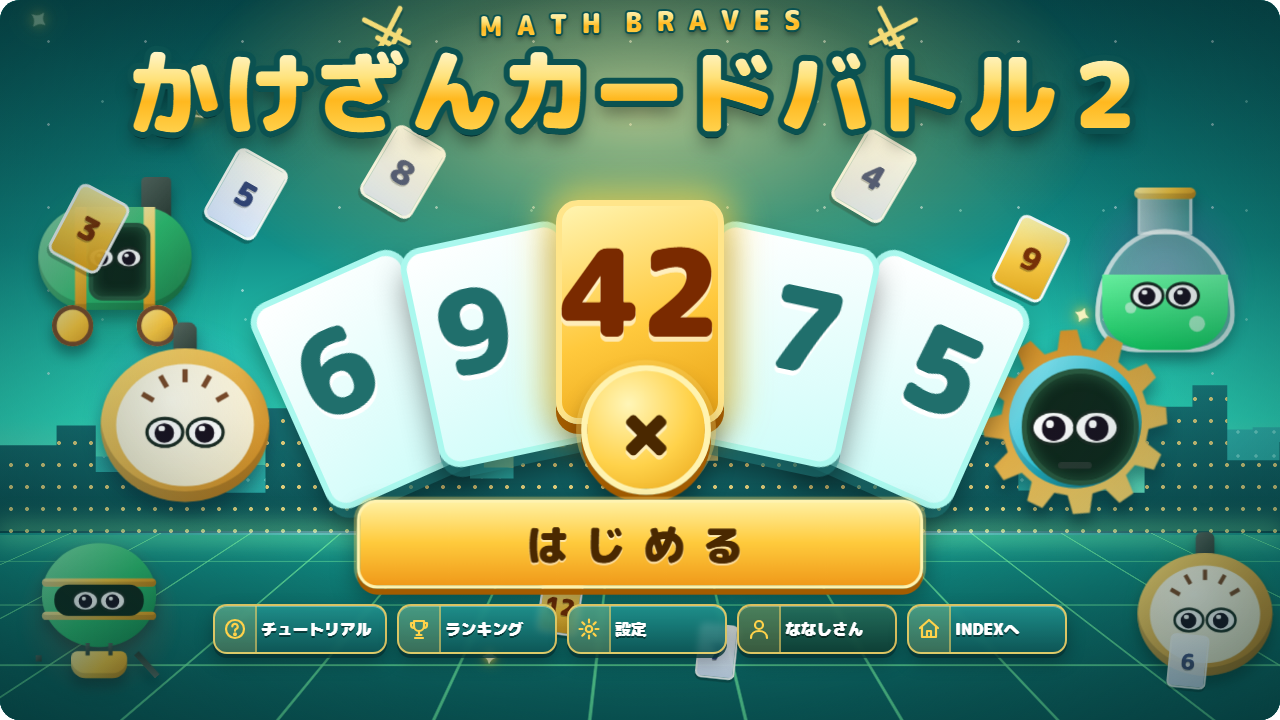
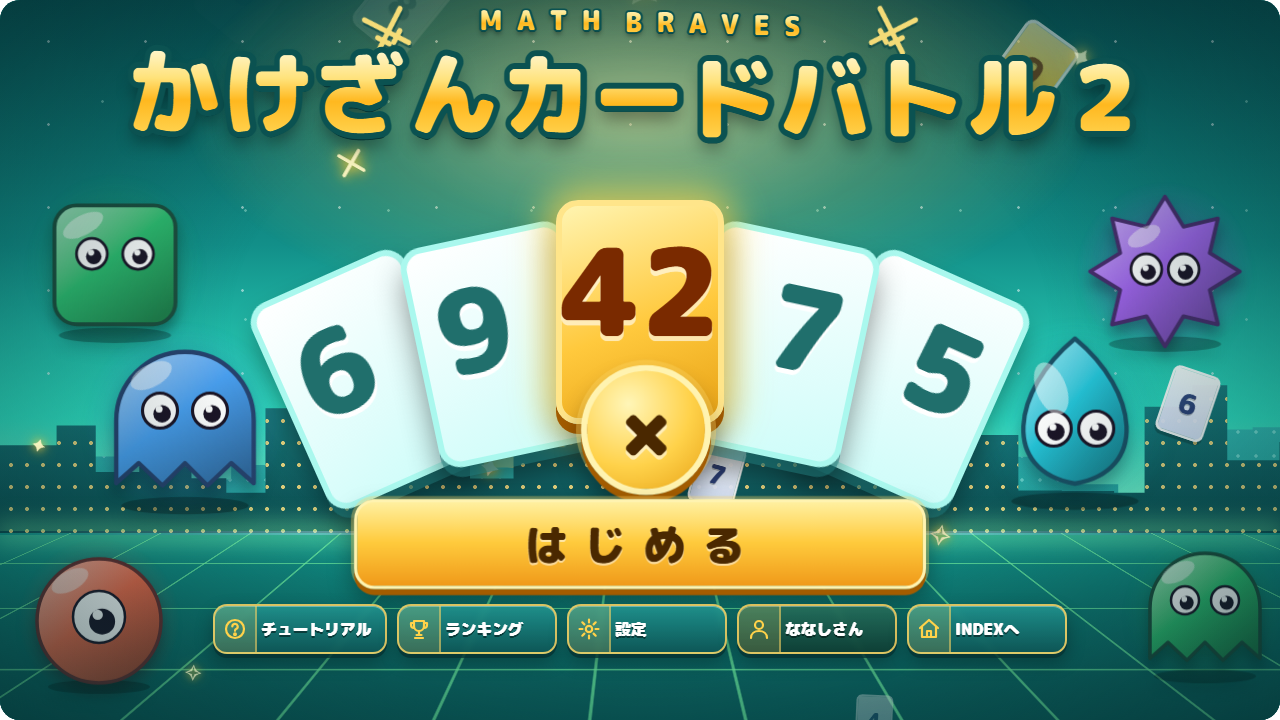
マスブレかけざん2: 敵を、前から好きだった まるっこい簡単なモンスター(おばけ・しかく・しずく・トゲトゲ・ひとつ目・ツノのボス)にもどし、描き方をきれいに
- スチームロボをやめ、元のモンスター6体の形・色にもどした。ぬりをグラデーションにし、ふち・つや・ハイライトつきの目・まばたき・かげを足したSVGで描き直し(ボスは怒りまゆ毛とニヤリ口)
- ラウンド名もモンスターに合わせた(ふわふわ おばけ…ツノの ボス)
- INDEXのサムネを新しいタイトル画面に差し替え

diff --git a/Math_Braves_multiplication2/field-art.js b/Math_Braves_multiplication2/field-art.js
@@ -1,18 +1,61 @@
-// かけざん2の絵: スチームロボ(真ちゅうの圧力ゲージ・ボイラー・歯車・蒸気)。
-// ロボは150x150の箱に描く(ボスは190x190)。体の色は .mon の --c で変える。ROUND_COLORS はラウンドごとの体の色。
+// かけざん2の絵: 前から好きだった、まるっこい簡単なモンスター(おばけ・しかく・しずく・トゲトゲ・ひとつ目・ツノのボス)。
+// 形は元のまま、ぬりをグラデーションにして ふち・つや・かげ・まばたきを足して きれいに描いた(SVG)。
+// 体の色は .mon の --c で変える。ROUND_COLORS はラウンドごとの体の色。
+const ROUND_COLORS = ['#9b59b6', '#3498db', '#2ecc71', '#f1c40f', '#e67e22', '#34495e'];
+
+let _mnId = 0;
+// 1体ぶんのSVG。body=からだのパス(または図形)、eyes=目の位置、size=箱の大きさ
+function mnSVG(size, bodyShape, extraBack, eyes, extraFront) {
+    const id = 'mg' + (++_mnId);
+    const eyeHTML = eyes.map(e => `<g class="mn-eye"><circle cx="${e.x}" cy="${e.y}" r="${e.r}" fill="#fff" stroke="#1c1426" stroke-width="2.5"/><circle cx="${e.x + e.r * 0.12}" cy="${e.y + e.r * 0.18}" r="${e.r * 0.5}" fill="#1c1426"/><circle cx="${e.x - e.r * 0.05}" cy="${e.y - e.r * 0.08}" r="${e.r * 0.2}" fill="#fff"/></g>`).join('');
+    return `<svg class="mn-svg" viewBox="0 0 ${size} ${size}" xmlns="http://www.w3.org/2000/svg">
+        <defs>
+            <linearGradient id="${id}" x1="0" y1="0" x2="0.8" y2="1"><stop offset="0" style="stop-color:color-mix(in srgb, var(--c) 45%, #fff)"/><stop offset="0.5" style="stop-color:var(--c)"/><stop offset="1" style="stop-color:color-mix(in srgb, var(--c) 66%, #000)"/></linearGradient>
+        </defs>
+        <ellipse cx="${size / 2}" cy="${size - 8}" rx="${size * 0.34}" ry="7" fill="rgba(0,0,0,.28)"/>
+        ${extraBack || ''}
+        <g fill="url(#${id})" stroke="color-mix(in srgb, var(--c) 38%, #12091f)" stroke-width="3.5" stroke-linejoin="round">${bodyShape}</g>
+        ${eyeHTML}
+        ${extraFront || ''}
+    </svg>`;
+}
+const gloss = (cx, cy, rx, ry, rot) => `<ellipse cx="${cx}" cy="${cy}" rx="${rx}" ry="${ry}" transform="rotate(${rot || -28} ${cx} ${cy})" fill="rgba(255,255,255,.45)"/>`;
+
+function starPath(cx, cy, ro, ri, n) {
+    const pts = [];
+    for (let i = 0; i < n * 2; i++) { const a = -Math.PI / 2 + i * Math.PI / n, r = i % 2 === 0 ? ro : ri; pts.push(`${(cx + Math.cos(a) * r).toFixed(1)},${(cy + Math.sin(a) * r).toFixed(1)}`); }
+    return `<polygon points="${pts.join(' ')}"/>`;
+}
+
+// ぬりのグラデーションのidは、描くたびに新しく作る(同じidが2つあると、かくれた方を見て色が消えるため)
 const ROBOTS = [
-    `<div class="ab sdk" style="left:66px;top:2px;width:18px;height:30px;border-radius:6px"></div><div class="ab" style="left:70px;top:-8px;width:10px;height:14px;border-radius:50%;background:rgba(255,255,255,.7);animation:stPuff 2s infinite"></div><div class="ab" style="left:10px;top:22px;width:130px;height:118px;border-radius:50%;background:linear-gradient(135deg,#ffe27a,#c8801a);box-shadow:inset 0 -8px 0 rgba(0,0,0,.18)"></div><div class="ab" style="left:22px;top:34px;width:106px;height:94px;border-radius:50%;background:radial-gradient(circle at 40% 30%,#fffdf0,#f0e6c4)"></div><div class="ab" style="left:73px;top:38px;width:4px;height:10px;background:#7a4a2a;transform-origin:2px 38px;transform:rotate(-60deg)"></div><div class="ab" style="left:73px;top:38px;width:4px;height:10px;background:#7a4a2a;transform-origin:2px 38px;transform:rotate(-30deg)"></div><div class="ab" style="left:73px;top:38px;width:4px;height:10px;background:#7a4a2a;transform-origin:2px 38px;transform:rotate(0deg)"></div><div class="ab" style="left:73px;top:38px;width:4px;height:10px;background:#7a4a2a;transform-origin:2px 38px;transform:rotate(30deg)"></div><div class="ab" style="left:73px;top:38px;width:4px;height:10px;background:#7a4a2a;transform-origin:2px 38px;transform:rotate(60deg)"></div><div class="sjt" style="left:47.2px;top:76.7px;width:24.8px;height:18.6px"><div class="sp" style="left:4.959999999999999px;top:2.719999999999999px;width:14.880000000000003px;height:14.880000000000003px"></div><div class="sl" style="height:13.3px;background:#f4ead0"></div></div><div class="sjt" style="left:78px;top:76.7px;width:24.8px;height:18.6px"><div class="sp" style="left:4.959999999999999px;top:2.719999999999999px;width:14.880000000000003px;height:14.880000000000003px"></div><div class="sl" style="height:13.3px;background:#f4ead0"></div></div>`,
-    `<div class="ab sdk" style="left:98px;top:0px;width:26px;height:40px;border-radius:4px 4px 0 0"></div><div class="ab" style="left:100px;top:-10px;width:22px;height:16px;border-radius:50%;background:rgba(255,255,255,.7);animation:stPuff 2s infinite"></div><div class="ab sgr" style="left:8px;top:26px;width:134px;height:90px;border-radius:44px"></div><div class="ab sgd" style="left:40px;top:26px;width:10px;height:90px;"></div><div class="ab sgd" style="left:100px;top:26px;width:10px;height:90px;"></div><div class="ab ssc" style="left:52px;top:40px;width:46px;height:60px;border-radius:12px"></div><div class="sjt" style="left:53px;top:62.5px;width:20px;height:15px"><div class="sp" style="left:4px;top:2px;width:12px;height:12px"></div><div class="sl" style="height:11.5px;background:#10281c"></div></div><div class="sjt" style="left:77px;top:62.5px;width:20px;height:15px"><div class="sp" style="left:4px;top:2px;width:12px;height:12px"></div><div class="sl" style="height:11.5px;background:#10281c"></div></div><div class="ab sgd" style="left:20px;top:112px;width:36px;height:36px;border-radius:50%;box-shadow:0 0 0 4px #7a4a2a inset"></div><div class="ab sgd" style="left:94px;top:112px;width:36px;height:36px;border-radius:50%;box-shadow:0 0 0 4px #7a4a2a inset"></div>`,
-    `<div class="ab" style="left:4px;top:4px;width:142px;height:142px;background:linear-gradient(135deg,#ffe27a,#c8801a);clip-path:polygon(90.0% 50.0%,99.8% 53.9%,98.3% 62.9%,87.7% 63.4%,84.6% 70.0%,91.2% 78.3%,85.4% 85.4%,76.0% 80.4%,70.0% 84.6%,71.5% 95.1%,62.9% 98.3%,57.3% 89.3%,50.0% 90.0%,46.1% 99.8%,37.1% 98.3%,36.6% 87.7%,30.0% 84.6%,21.7% 91.2%,14.6% 85.4%,19.6% 76.0%,15.4% 70.0%,4.9% 71.5%,1.7% 62.9%,10.7% 57.3%,10.0% 50.0%,0.2% 46.1%,1.7% 37.1%,12.3% 36.6%,15.4% 30.0%,8.8% 21.7%,14.6% 14.6%,24.0% 19.6%,30.0% 15.4%,28.5% 4.9%,37.1% 1.7%,42.7% 10.7%,50.0% 10.0%,53.9% 0.2%,62.9% 1.7%,63.4% 12.3%,70.0% 15.4%,78.3% 8.8%,85.4% 14.6%,80.4% 24.0%,84.6% 30.0%,95.1% 28.5%,98.3% 37.1%,89.3% 42.7%);animation:stSpin 14s linear infinite"></div><div class="ab sgr" style="left:24px;top:24px;width:102px;height:102px;border-radius:50%"></div><div class="ab ssc" style="left:34px;top:34px;width:82px;height:82px;border-radius:50%"></div><div class="sjt" style="left:42.8px;top:68.3px;width:31.200000000000003px;height:23.400000000000002px"><div class="sp" style="left:6.24px;top:3.6799999999999997px;width:18.720000000000002px;height:18.720000000000002px"></div><div class="sl" style="height:15.700000000000001px;background:#10281c"></div></div><div class="sjt" style="left:76px;top:68.3px;width:31.200000000000003px;height:23.400000000000002px"><div class="sp" style="left:6.24px;top:3.6799999999999997px;width:18.720000000000002px;height:18.720000000000002px"></div><div class="sl" style="height:15.700000000000001px;background:#10281c"></div></div><div class="ab" style="left:62px;top:106px;width:26px;height:5px;background:#2a3a32;border-radius:3px"></div>`,
-    `<div class="ab" style="left:54px;top:4px;width:42px;height:34px;background:linear-gradient(90deg,rgba(255,255,255,.6),rgba(200,255,230,.3));box-shadow:0 0 0 3px rgba(255,255,255,.7);border-radius:6px 6px 0 0"></div><div class="ab sgd" style="left:48px;top:0px;width:54px;height:10px;border-radius:5px"></div><div class="ab" style="left:14px;top:36px;width:122px;height:108px;border-radius:50% 50% 30% 30%/70% 70% 30% 30%;background:rgba(220,255,240,.35);box-shadow:0 0 0 4px rgba(255,255,255,.7) inset"></div><div class="ab" style="left:20px;top:76px;width:110px;height:66px;border-radius:0 0 40px 40px/0 0 36px 36px;background:linear-gradient(#6fffa8,#14c860)"></div><div class="ab" style="left:40px;top:100px;width:10px;height:10px;border-radius:50%;background:rgba(255,255,255,.55)"></div><div class="ab" style="left:96px;top:112px;width:14px;height:14px;border-radius:50%;background:rgba(255,255,255,.55)"></div><div class="ab" style="left:70px;top:88px;width:8px;height:8px;border-radius:50%;background:rgba(255,255,255,.55)"></div><div class="sjt" style="left:47.2px;top:84.7px;width:24.8px;height:18.6px"><div class="sp" style="left:4.959999999999999px;top:2.719999999999999px;width:14.880000000000003px;height:14.880000000000003px"></div><div class="sl" style="height:13.3px;background:#38d880"></div></div><div class="sjt" style="left:78px;top:84.7px;width:24.8px;height:18.6px"><div class="sp" style="left:4.959999999999999px;top:2.719999999999999px;width:14.880000000000003px;height:14.880000000000003px"></div><div class="sl" style="height:13.3px;background:#38d880"></div></div>`,
-    `<div class="ab" style="left:20px;top:4px;width:110px;height:100px;border-radius:50%;background:linear-gradient(135deg,#8af0b6,#2fbf71 55%,#14804a)"></div><div class="ab sgd" style="left:20px;top:38px;width:110px;height:8px;border-radius:4px"></div><div class="ab sgd" style="left:20px;top:70px;width:110px;height:8px;border-radius:4px"></div><div class="ab" style="left:32px;top:44px;width:86px;height:30px;background:#10281c;border-radius:14px"></div><div class="sjt" style="left:51px;top:50.75px;width:22px;height:16.5px"><div class="sp" style="left:4.3999999999999995px;top:2.299999999999999px;width:13.200000000000001px;height:13.200000000000001px"></div><div class="sl" style="height:12.25px;background:#10281c"></div></div><div class="sjt" style="left:77px;top:50.75px;width:22px;height:16.5px"><div class="sp" style="left:4.3999999999999995px;top:2.299999999999999px;width:13.200000000000001px;height:13.200000000000001px"></div><div class="sl" style="height:12.25px;background:#10281c"></div></div><div class="ab sgd" style="left:48px;top:108px;width:54px;height:26px;border-radius:6px 6px 14px 14px"></div><div class="ab sdk" style="left:62px;top:100px;width:4px;height:12px;"></div><div class="ab sdk" style="left:84px;top:100px;width:4px;height:12px;"></div><div class="ab sdk" style="left:106px;top:118px;width:30px;height:6px;animation:stSpin 1s linear infinite"></div><div class="ab sdk" style="left:14px;top:112px;width:6px;height:6px;"></div>`,
+    // 1 おばけ
+    () => mnSVG(150, `<path d="M20 74 A55 55 0 0 1 130 74 L130 124 L112 108 L93 126 L75 108 L57 126 L38 108 L20 124 Z"/>`, '',
+        [{ x: 55, y: 66, r: 14 }, { x: 95, y: 66, r: 14 }], gloss(48, 38, 18, 9)),
+    // 2 しかく
+    () => mnSVG(150, `<rect x="20" y="24" width="110" height="108" rx="20"/>`, '',
+        [{ x: 54, y: 68, r: 14 }, { x: 96, y: 68, r: 14 }], gloss(46, 42, 20, 9)),
+    // 3 しずく
+    () => mnSVG(150, `<path d="M75 12 C24 54 16 118 75 128 C134 118 126 54 75 12 Z"/>`, '',
+        [{ x: 58, y: 84, r: 14 }, { x: 92, y: 84, r: 14 }], gloss(56, 52, 12, 22, -22)),
+    // 4 トゲトゲ
+    () => mnSVG(150, starPath(75, 76, 68, 44, 8), '',
+        [{ x: 58, y: 74, r: 14 }, { x: 92, y: 74, r: 14 }], gloss(56, 44, 16, 8)),
+    // 5 ひとつ目
+    () => mnSVG(150, `<circle cx="75" cy="76" r="62"/>`, '',
+        [{ x: 75, y: 72, r: 26 }], gloss(46, 36, 20, 10)),
 ];
-const ROBOT_BOSS = `<div class="ab sdk" style="left:120px;top:0px;width:36px;height:56px;border-radius:6px 6px 0 0"></div><div class="ab" style="left:124px;top:-6px;width:28px;height:20px;border-radius:50%;background:rgba(255,255,255,.7);animation:stPuff 2.2s infinite"></div><div class="ab sgr" style="left:18px;top:20px;width:154px;height:120px;border-radius:56px"></div><div class="ab sgd" style="left:48px;top:20px;width:12px;height:120px;"></div><div class="ab sgd" style="left:90px;top:20px;width:12px;height:120px;"></div><div class="ab sgd" style="left:132px;top:20px;width:12px;height:120px;"></div><div class="ab ssc" style="left:50px;top:38px;width:90px;height:54px;border-radius:16px"></div><div class="sjt" style="left:59.800000000000004px;top:52.3px;width:31.200000000000003px;height:23.400000000000002px"><div class="sp" style="left:6.24px;top:3.6799999999999997px;width:18.720000000000002px;height:18.720000000000002px"></div><div class="sl" style="height:15.700000000000001px;background:#10281c"></div></div><div class="sjt" style="left:99px;top:52.3px;width:31.200000000000003px;height:23.400000000000002px"><div class="sp" style="left:6.24px;top:3.6799999999999997px;width:18.720000000000002px;height:18.720000000000002px"></div><div class="sl" style="height:15.700000000000001px;background:#10281c"></div></div><div class="ab" style="left:60px;top:100px;width:70px;height:34px;border-radius:8px 8px 18px 18px;background:#1a0a04;box-shadow:inset 0 -10px 18px #ff7a1c,0 0 0 4px #7a4a2a;animation:stGlow 1.2s infinite"></div><div class="ab sdk" style="left:18px;top:130px;width:154px;height:46px;border-radius:10px"></div><div class="ab sgd" style="left:34px;top:138px;width:34px;height:34px;border-radius:50%;box-shadow:0 0 0 4px #7a4a2a inset"></div><div class="ab sgd" style="left:80px;top:138px;width:34px;height:34px;border-radius:50%;box-shadow:0 0 0 4px #7a4a2a inset"></div><div class="ab sgd" style="left:126px;top:138px;width:34px;height:34px;border-radius:50%;box-shadow:0 0 0 4px #7a4a2a inset"></div>`;
-const ROUND_COLORS = ['#2fbf71', '#4aa0f0', '#ef6a4a', '#a064ea', '#26c6da', '#2fbf71'];
-// 共通の画面(タイトルのロボ・RUNカード)が使う、ロボ1体のHTML
+// 6 ツノのボス(190x190)
+const ROBOT_BOSS = () => mnSVG(190,
+    `<circle cx="95" cy="112" r="74"/>`,
+    `<g fill="#e8e4f0" stroke="#12091f" stroke-width="3.5" stroke-linejoin="round"><path d="M44 62 L24 10 L74 44 Z"/><path d="M146 62 L166 10 L116 44 Z"/></g>`,
+    [{ x: 66, y: 102, r: 18 }, { x: 124, y: 102, r: 18 }],
+    `<path d="M44 82 L88 94" stroke="#12091f" stroke-width="6" stroke-linecap="round"/><path d="M146 82 L102 94" stroke="#12091f" stroke-width="6" stroke-linecap="round"/><path d="M70 144 Q95 160 120 144" stroke="#12091f" stroke-width="5" fill="none" stroke-linecap="round"/>` + gloss(62, 64, 22, 10));
+
+// 共通の画面(タイトルのモンスター・RUNカード)が使う、モンスター1体のHTML
 function monHTML(shape) {
-    return `<div class="glow"></div><div class="rbx">${ROBOTS[shape % ROBOTS.length]}</div>`;
+    return `<div class="glow"></div>${ROBOTS[shape % ROBOTS.length]()}`;
 }
 function bossHTML() {
-    return `<div class="glow"></div><div class="rbx big">${ROBOT_BOSS}</div>`;
+    return `<div class="glow"></div>${ROBOT_BOSS()}`;
 }

diff --git a/Math_Braves_multiplication2/Math_Braves_multiplication2.html b/Math_Braves_multiplication2/Math_Braves_multiplication2.html
@@ -18,27 +18,19 @@
     <style>
         /* ティール×金(スチーム)。--h は共通CSSの色相(たしざん=220, ひきざん=352, かけざん=150) */
         :root { --h: 172; --led: #7dffd8; --led-soft: rgba(125,255,216,0.45); }
-        .mon { --c: #2fbf71; }
+        .mon { --c: #9b59b6; }
 
-        /* ---- スチームロボ(150x150の箱に描いて縮小する。ボスは190x190)。体の色は --c ---- */
-        .rbx { position:absolute; left:50%; top:50%; width:150px; height:150px; margin:-75px 0 0 -75px; transform:scale(1.04); z-index:1; }
-        .rbx.big { width:190px; height:190px; margin:-95px 0 0 -95px; transform:scale(0.84); }
-        .rbx .ab { position:absolute; }
-        .sgr { background:linear-gradient(135deg, color-mix(in srgb, var(--c) 52%, #fff), var(--c) 55%, color-mix(in srgb, var(--c) 62%, #000)); box-shadow:inset 0 -6px 0 rgba(0,0,0,.16); }
-        .sgd { background:linear-gradient(135deg,#fff3a8,#ffc93d 55%,#d9931a); box-shadow:inset 0 -5px 0 rgba(0,0,0,.14); }
-        .sdk { background:linear-gradient(135deg,#5a6a62,#2a3a32); }
-        .ssc { background:#10281c; border:4px solid #2a5a40; box-shadow:inset 0 0 12px rgba(120,255,180,.25); }
-        /* ジト目(まぶたが上半分をおおう・光なし) */
-        .sjt { position:absolute; border-radius:50%; background:#fff; overflow:hidden; box-shadow:0 0 0 2.5px #1a2a22; animation: stBlink 4.8s infinite; }
-        .sjt .sp { position:absolute; border-radius:50%; background:#1a1220; }
-        .sjt .sl { position:absolute; left:-4px; right:-4px; top:-4px; border-bottom:3px solid #1a2a22; }
-        @keyframes stBlink { 0%,92%,100% { transform:scaleY(1); } 95% { transform:scaleY(.1); } }
-        @keyframes stSpin { to { transform:rotate(360deg); } }
-        @keyframes stPuff { 0% { transform:translateY(0) scale(.5); opacity:.9; } 100% { transform:translateY(-34px) scale(1.3); opacity:0; } }
+        /* ---- モンスター(まるっこい簡単な絵。150x150の箱にSVGで描く。ボスは190x190。体の色は --c) ---- */
+        .mn-svg { position:absolute; left:0; top:0; width:150px; height:150px; overflow:visible; z-index:1; }
+        .mon.boss .mn-svg { left:-20px; top:-34px; width:190px; height:190px; }
+        .mn-eye { transform-box:fill-box; transform-origin:center; animation: mnBlink 4.6s infinite; }
+        .mn-eye:nth-of-type(2) { animation-delay:.04s; }
+        @keyframes mnBlink { 0%,93%,100% { transform:scaleY(1); } 96% { transform:scaleY(.1); } }
         @keyframes stGlow { 0%,100% { opacity:.7; } 50% { opacity:1; } }
 
         /* ---- 戦闘の画面 ---- */
         .fd-enemy { position:absolute; left:0; top:0; width:0; height:0; }
+        .fd-enemy .mn-svg > ellipse:first-of-type { display:none; }
         .fd-enemy.dead { animation: enDead 0.5s ease-in forwards; transform-origin:360px 150px; }
         .fd-enemy .gnd { position:absolute; height:22px; border-radius:50%; background:radial-gradient(ellipse at center, rgba(0,0,0,0.5) 0%, rgba(0,0,0,0) 70%); }
         .fd-enemy .rw { position:absolute; left:285px; top:44px; width:150px; height:150px; transform:scale(1.4); transform-origin:50% 0; }
@@ -98,7 +90,7 @@
 
 <div id="container"></div>
 
-<script src="field-config.js?v=20261012"></script>
+<script src="field-config.js?v=20261032"></script>
 <script>
 // ---- このゲーム(固有)の設定 ----
 const RUN_LIST = [
@@ -180,8 +172,8 @@ const GAME = {
     strings: {
         ja: {
             subject_badge: "かけざん２", title_plaque: "かけざんカードバトル２",
-            run_normal_desc: "6つのラウンドを進んで、ボスロボをたおそう！",
-            stage_name_1: "ゲージロボ", stage_name_2: "ボイラーロボ", stage_name_3: "ギアヘッド", stage_name_4: "フラスコロボ", stage_name_5: "ひこうせんロボ", stage_name_6: "ボイラーまじん",
+            run_normal_desc: "6つのラウンドを進んで、ツノのボスをたおそう！",
+            stage_name_1: "ふわふわ おばけ", stage_name_2: "ずっしり しかく", stage_name_3: "ぷるぷる しずく", stage_name_4: "ちくちく トゲトゲ", stage_name_5: "じろじろ ひとつ目", stage_name_6: "ツノの ボス",
             stage_word: "ROUND", rank_stage_prefix: "R", stage_log: "<b>ラウンド{n}</b> {name}", final_title: "ファイナルラウンド！",
             label_stage: "ラウンド", stage_clear_title: "ラウンド{n} クリア！", sc_stage_score: "このラウンドのスコア", btn_next_stage: "ラウンド{n}へ ▶", end_reached: "とうたつ ラウンド",
             label_item: "アイテム", btn_use: "つかう", btn_cancel: "やめる",
@@ -208,8 +200,8 @@ const GAME = {
         },
         simple: {
             subject_badge: "かけざん２", title_plaque: "かけざんカードバトル２",
-            run_normal_desc: "6つの ラウンドを すすんで、ボスロボを たおそう！",
-            stage_name_1: "ゲージロボ", stage_name_2: "ボイラーロボ", stage_name_3: "ギアヘッド", stage_name_4: "フラスコロボ", stage_name_5: "ひこうせんロボ", stage_name_6: "ボイラーまじん",
+            run_normal_desc: "6つの ラウンドを すすんで、ツノの ボスを たおそう！",
+            stage_name_1: "ふわふわ おばけ", stage_name_2: "ずっしり しかく", stage_name_3: "ぷるぷる しずく", stage_name_4: "ちくちく トゲトゲ", stage_name_5: "じろじろ ひとつ目", stage_name_6: "ツノの ボス",
             stage_word: "ROUND", rank_stage_prefix: "R", stage_log: "<b>ラウンド{n}</b> {name}", final_title: "ファイナルラウンド！",
             label_stage: "ラウンド", stage_clear_title: "ラウンド{n} クリア！", sc_stage_score: "この ラウンドの スコア", btn_next_stage: "ラウンド{n}へ ▶", end_reached: "とうたつ ラウンド",
             label_item: "アイテム", btn_use: "つかう", btn_cancel: "やめる",
@@ -236,8 +228,8 @@ const GAME = {
         },
         en: {
             subject_badge: "Multiply 2", title_plaque: "Multiplication Card Battle 2",
-            run_normal_desc: "Go through 6 rounds and defeat the boss robot!",
-            stage_name_1: "Gauge Bot", stage_name_2: "Boiler Bot", stage_name_3: "Gearhead", stage_name_4: "Flask Bot", stage_name_5: "Airship Bot", stage_name_6: "Boiler Titan",
+            run_normal_desc: "Go through 6 rounds and defeat the horned boss!",
+            stage_name_1: "Fluffy Ghost", stage_name_2: "Heavy Block", stage_name_3: "Wobbly Drop", stage_name_4: "Spiky Star", stage_name_5: "One-Eye", stage_name_6: "Horned Boss",
             stage_word: "ROUND", rank_stage_prefix: "R", stage_log: "<b>Round {n}</b> {name}", final_title: "Final Round!",
             label_stage: "Round", stage_clear_title: "Round {n} Clear!", sc_stage_score: "Score this round", btn_next_stage: "To Round {n} ▶", end_reached: "Round reached",
             label_item: "Items", btn_use: "Use", btn_cancel: "Cancel",
@@ -266,9 +258,9 @@ const GAME = {
 };
 </script>
 <script src="../braves-common.js?v=20261029"></script>
-<script src="field-icons.js?v=20261012"></script>
-<script src="field-art.js?v=20261012"></script>
-<script src="field.js?v=20261012"></script>
+<script src="field-icons.js?v=20261032"></script>
+<script src="field-art.js?v=20261033"></script>
+<script src="field.js?v=20261032"></script>
 <script src="../braves-run.js?v=20261029"></script>
 <script>
 // ============================================================

diff --git a/Math_Braves_multiplication2/field.js b/Math_Braves_multiplication2/field.js
@@ -1,4 +1,4 @@
-// かけざん2(スチームロボ)の本体。
+// かけざん2(まるっこいモンスター)の本体。
 // 見た目はDOM(#bl)で描き、入力は透明なcanvasが受ける。座標はゲームエリア内のpx(720x720)。
 // ルールは元のかけざん2と同じ: 手札のカードをまん中の「ばのカード」にかさねて かけざん → 101いじょうで てきにこうげき(ダメージ=ばのカードの数)。
 // こうげきするとアクションが1へる。てきのHP=(ラウンド+4)×(50×ラウンド+hpBase)、アクション=ラウンド+4。ラウンドをクリアするとアイテムが1つ。

diff --git a/index.html b/index.html
@@ -1306,7 +1306,7 @@
                 <span class="mini-tag" data-i18n="tag_gr2">2年生〜</span>
             </div>
             <a href="Math_Braves_multiplication2/Math_Braves_multiplication2.html" class="media-container">
-                <img src="images/Math_Braves_multiplication2.png?v=20261030" alt="かけざんカードバトル２">
+                <img src="images/Math_Braves_multiplication2.png?v=20261034" alt="かけざんカードバトル２">
             </a>
             <div class="start-btn-area">
                 <a href="Math_Braves_multiplication2/Math_Braves_multiplication2.html" class="play-btn">ゲームスタート ▶</a>
